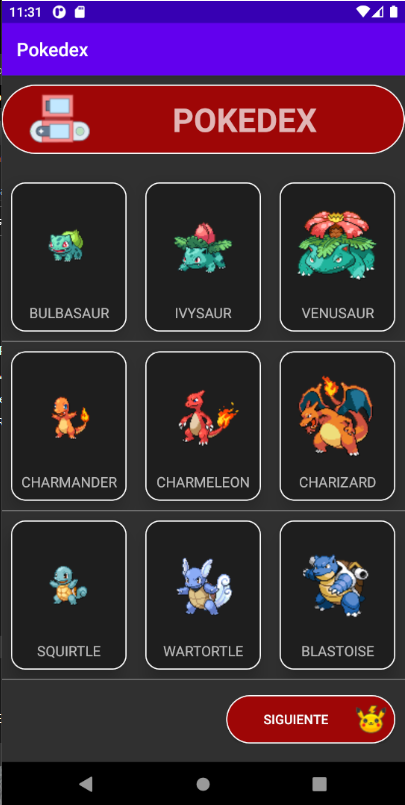
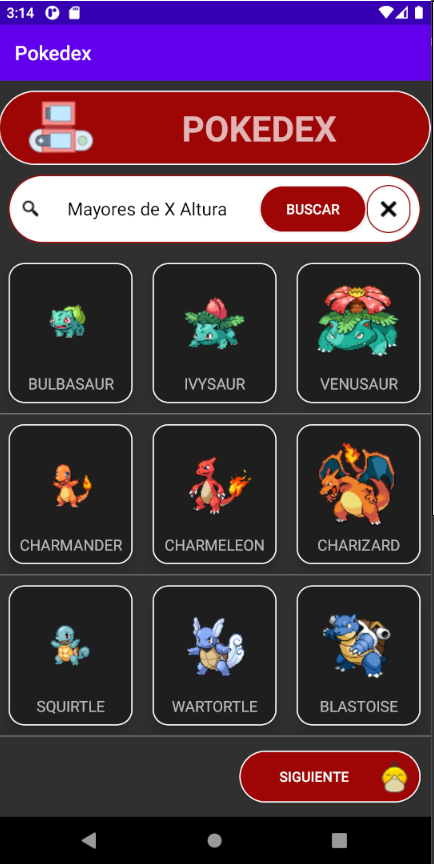
Busqueda Por Alturas Añadida

diff --git a/Pokedex/app/src/main/java/com/example/pokedex/MainActivity.java b/Pokedex/app/src/main/java/com/example/pokedex/MainActivity.java
@@ -9,6 +9,7 @@ import android.content.Intent;
 import android.os.Bundle;
 import android.view.View;
 import android.widget.Button;
+import android.widget.EditText;
 import android.widget.Toast;
 
 import com.example.pokedex.Modelos_JSON.Pokemon;
@@ -21,10 +22,12 @@ public class MainActivity extends AppCompatActivity{
 
     private RecyclerView recycler;
     private LinkedList<Pokemon> pokemons;
-    private Button btnSiguiente, btnAnterior;
+    private Button btnSiguiente, btnAnterior, btnQuitar, btnBuscar;
     private Pokemons pokemonsAPI;
     private ObtenerPokemonsAsyncTask tareaPokemons;
     private View.OnClickListener listener;
+
+    private EditText etAlturaPokemon;
 
     @Override
     protected void onCreate(Bundle savedInstanceState) {
@@ -110,12 +113,50 @@ public class MainActivity extends AppCompatActivity{
                 btnSiguiente.setVisibility(View.VISIBLE);
             }
         });
+
+        btnBuscar.setOnClickListener(new View.OnClickListener() {
+            @Override
+            public void onClick(View view) {
+                //Compruebo que el edit text del filtro no este vacio
+                if(etAlturaPokemon.getText().toString().equalsIgnoreCase(""))
+                {
+                    return;
+                }
+
+                //Busco por nombre de pokemon y lo cargo
+                AdapterDatos adapterDatos = new AdapterDatos(buscarPokemon(etAlturaPokemon.getText().toString()));
+
+                adapterDatos.setOnClickListener(listener);
+
+                recycler.setAdapter(adapterDatos);
+
+                btnSiguiente.setVisibility(View.INVISIBLE);
+            }
+        });
+
+        btnQuitar.setOnClickListener(new View.OnClickListener() {
+            @Override
+            public void onClick(View view) {
+                etAlturaPokemon.setText("");
+
+                AdapterDatos adapterDatos = new AdapterDatos(pokemons);
+
+                adapterDatos.setOnClickListener(listener);
+
+                recycler.setAdapter(adapterDatos);
+
+                btnSiguiente.setVisibility(View.VISIBLE);
+            }
+        });
     }
 
     private void inicializarComponentes() {
         recycler = findViewById(R.id.recycler);
         btnSiguiente = findViewById(R.id.btnSiguiente);
         btnAnterior = findViewById(R.id.btnAnterior);
+        btnQuitar = findViewById(R.id.btnQuitar);
+        btnBuscar = findViewById(R.id.btnBuscar);
+        etAlturaPokemon = findViewById(R.id.txtAlturaPokemon);
 
         pokemons = new LinkedList<>();
         pokemonsAPI = new Pokemons();
@@ -130,6 +171,20 @@ public class MainActivity extends AppCompatActivity{
         } catch (InterruptedException e) {
             e.printStackTrace();
         }
+    }
+
+    private LinkedList<Pokemon> buscarPokemon(String alturaPoke){
+        LinkedList<Pokemon> pokemonsNombre = new LinkedList<>();
+
+        alturaPoke = alturaPoke.toLowerCase();
+
+        for (Pokemon pokemon : pokemons){
+            if(pokemon.getHeight()/10 >= Double.valueOf(alturaPoke))
+            {
+                pokemonsNombre.add(pokemon);
+            }
+        }
+        return pokemonsNombre;
     }
 
 }
